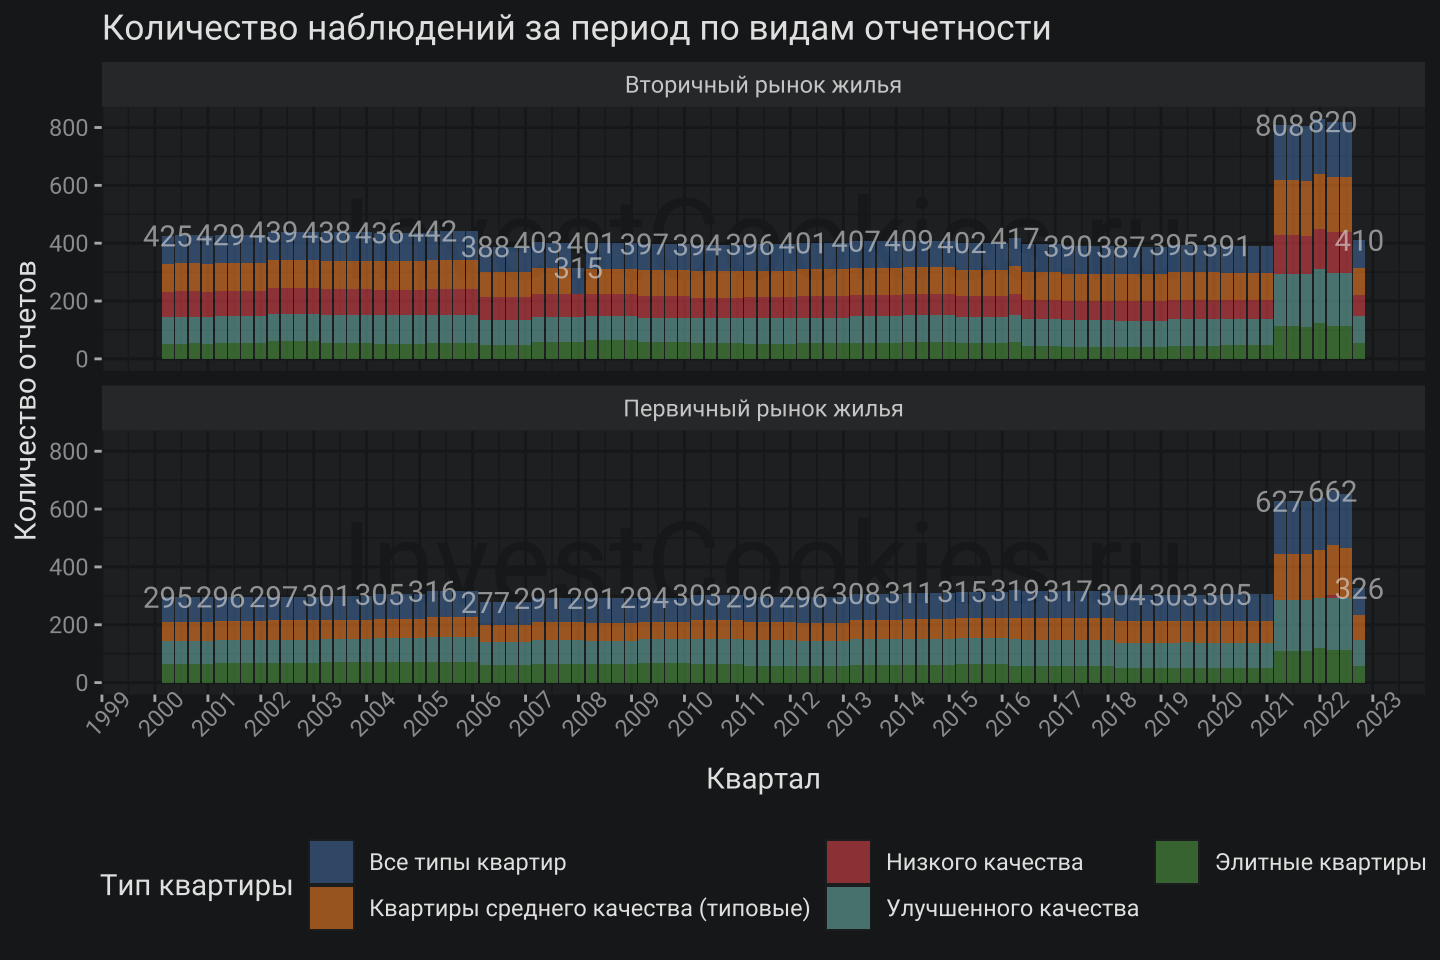
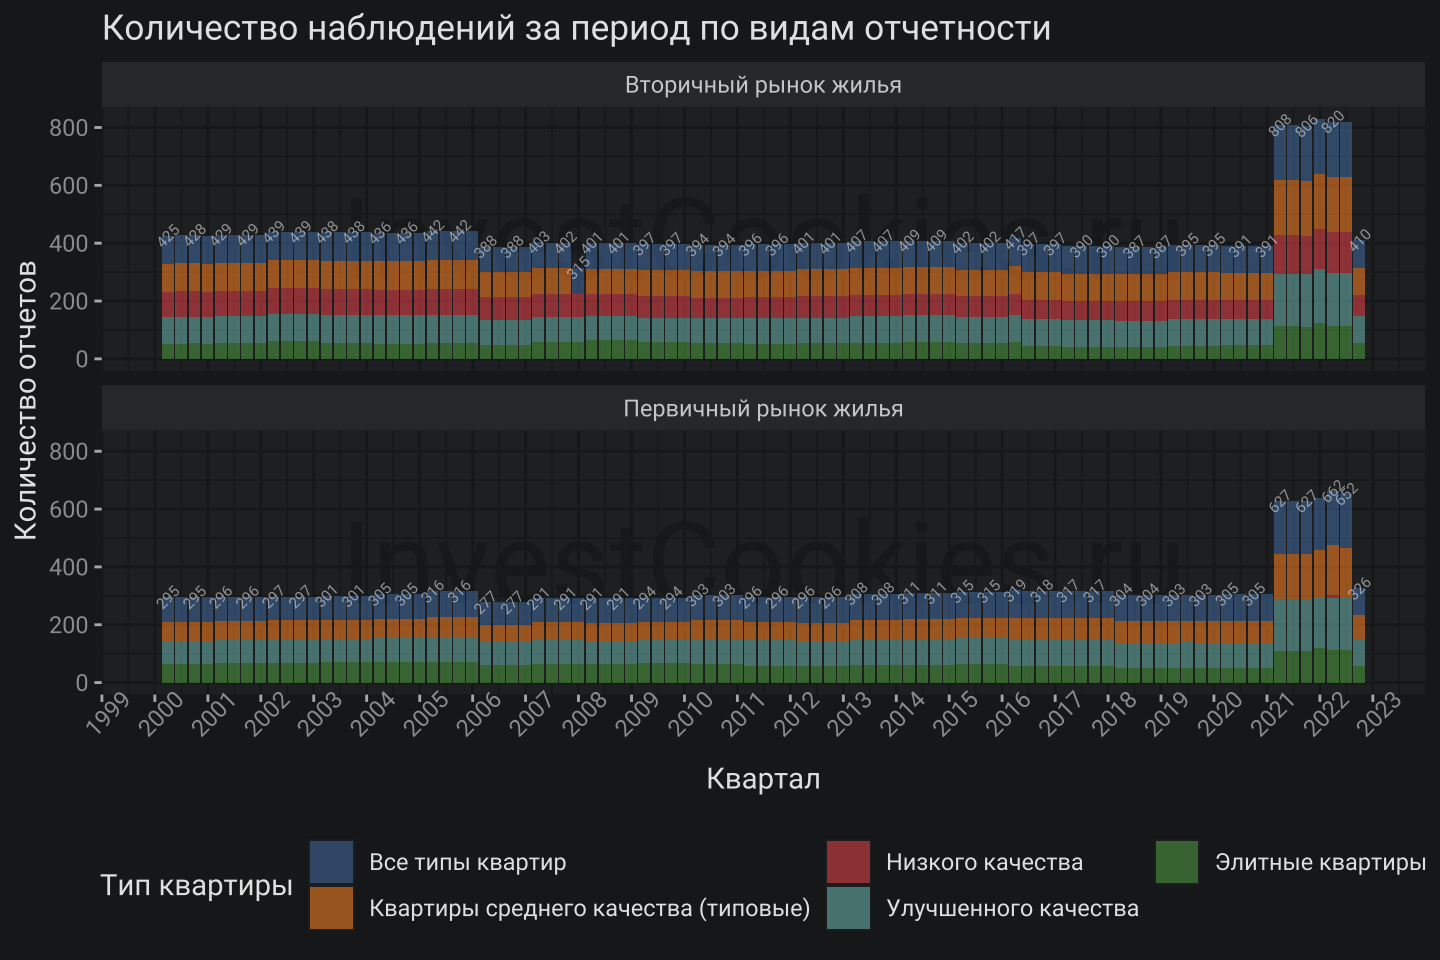
fix stack

diff --git a/content/post/ggplot_stack/index.md b/content/post/ggplot_stack/index.md
@@ -73,7 +73,7 @@ slice_sample(house, n = 30) %>% # 30 случайных наблюдений
 ```
 
 <div id="htmlwidget-1" style="width:100%;height:auto;" class="datatables html-widget"></div>
-<script type="application/json" data-for="htmlwidget-1">{"x":{"style":"bootstrap4","filter":"none","vertical":false,"extensions":["Responsive"],"caption":"<caption>Котировки технологических гигантов<\/caption>","data":[["1","2","3","4","5","6","7","8","9","10","11","12","13","14","15","16","17","18","19","20","21","22","23","24","25","26","27","28","29","30"],["рубль","рубль","рубль","рубль","рубль","рубль","рубль","рубль","рубль","рубль","рубль","рубль","рубль","рубль","рубль","рубль","рубль","рубль","рубль","рубль","рубль","рубль","рубль","рубль","рубль","рубль","рубль","рубль","рубль","рубль"],[42104.5,13880.61,34093.75,208456.55,25361.49,72586.38,49140.4,36958.49,51568.23,7536.33,40072.96,59134.25,12420.55,30089.01,53662.46,16537.45,89524.29,84497.15,67657.77,59833.19,6806.7,43500,73228.62,34348.7,14732.77,63595.74,56815.08,38448.11,111117.99,62207.27],["I квартал","IV квартал","III квартал","II квартал","II квартал","I квартал","I квартал","I квартал","I квартал","IV квартал","I квартал","IV квартал","II квартал","II квартал","III квартал","III квартал","III квартал","I квартал","II квартал","IV квартал","I квартал","I квартал","I квартал","I квартал","II квартал","II квартал","III квартал","III квартал","I квартал","IV квартал"],["3","4","5","3","4","5","1","3","1","2","3","4","1","1","4","5","4","5","5","3","5","5","5","5","3","1","4","4","5","5"],["2016","2006","2006","2022","2006","2017","2016","2008","2016","2002","2014","2008","2005","2006","2015","2003","2021","2021","2020","2014","2001","2009","2021","2011","2006","2020","2017","2018","2021","2021"],["73000000000","83000000000","57000000000","40000000000","57000000000","50000000000","78000000000","035","27000000000","70000000000","58000000000","71100000000","85000000000","031","70000000000","059","65000000000","20000000000","86000000000","71100000000","054","24000000000","12000000000","24000000000","24000000000","50000000000","35000000000","63000000000","034","33000000000"],[null,null,null,null,null,null,null,null,null,null,null,null,null,null,null,null,"1.АГ",null,null,null,null,null,"1.АГ",null,null,null,null,null,null,"1.АГ"],["3","3","1","1","1","1","3","1","1","3","3","3","1","1","3","1","1","3","3","3","1","3","3","1","3","3","1","1","1","3"],["Вторичный рынок жилья","Вторичный рынок жилья","Первичный рынок жилья","Первичный рынок жилья","Первичный рынок жилья","Первичный рынок жилья","Вторичный рынок жилья","Первичный рынок жилья","Первичный рынок жилья","Вторичный рынок жилья","Вторичный рынок жилья","Вторичный рынок жилья","Первичный рынок жилья","Первичный рынок жилья","Вторичный рынок жилья","Первичный рынок жилья","Первичный рынок жилья","Вторичный рынок жилья","Вторичный рынок жилья","Вторичный рынок жилья","Первичный рынок жилья","Вторичный рынок жилья","Вторичный рынок жилья","Первичный рынок жилья","Вторичный рынок жилья","Вторичный рынок жилья","Первичный рынок жилья","Первичный рынок жилья","Первичный рынок жилья","Вторичный рынок жилья"],["Ульяновская область","Кабардино-Балкарская Республика","Пермский край","Город Санкт-Петербург город федерального значения","Пермский край","Новосибирская область","Ярославская область","Сибирский федеральный округ","Калининградская область","Тульская область","Псковская область","Ханты-Мансийский автономный округ - Югра (Тюменская область)","Республика Калмыкия","Северо-Западный федеральный округ","Тульская область","Восточно-Сибирский район","Свердловская область","Воронежская область","Республика Карелия","Ханты-Мансийский автономный округ - Югра (Тюменская область)","Центрально-Черноземный район","Ивановская область","Астраханская область","Ивановская область","Ивановская область","Новосибирская область","Республика Крым","Саратовская область","Уральский федеральный округ","Кировская область"],[null,null,null,null,null,null,null,null,null,null,null,null,null,null,null,null,"Все территории - итого",null,null,null,null,null,"Все территории - итого",null,null,null,null,null,null,"Все территории - итого"],["Квартиры среднего качества (типовые)","Улучшенного качества","Элитные квартиры","Квартиры среднего качества (типовые)","Улучшенного качества","Элитные квартиры","Все типы квартир","Квартиры среднего качества (типовые)","Все типы квартир","Низкого качества","Квартиры среднего качества (типовые)","Улучшенного качества","Все типы квартир","Все типы квартир","Улучшенного качества","Элитные квартиры","Улучшенного качества","Элитные квартиры","Элитные квартиры","Квартиры среднего качества (типовые)","Элитные квартиры","Элитные квартиры","Элитные квартиры","Элитные квартиры","Квартиры среднего качества (типовые)","Все типы квартир","Улучшенного качества","Улучшенного качества","Элитные квартиры","Элитные квартиры"],["03","12","09","06","06","03","03","03","03","12","03","12","06","06","09","09","09","03","06","12","03","03","03","03","06","06","09","09","03","12"],["2016-03-30","2006-12-30","2006-09-30","2022-06-30","2006-06-30","2017-03-30","2016-03-30","2008-03-30","2016-03-30","2002-12-30","2014-03-30","2008-12-30","2005-06-30","2006-06-30","2015-09-30","2003-09-30","2021-09-30","2021-03-30","2020-06-30","2014-12-30","2001-03-30","2009-03-30","2021-03-30","2011-03-30","2006-06-30","2020-06-30","2017-09-30","2018-09-30","2021-03-30","2021-12-30"]],"container":"<table class=\"table table-striped table-hover row-border order-column display\">\n  <thead>\n    <tr>\n      <th> <\/th>\n      <th>EI<\/th>\n      <th>ObsValue<\/th>\n      <th>PERIOD<\/th>\n      <th>S_TIPKVARTIR_code<\/th>\n      <th>Time<\/th>\n      <th>s_OKATO_code<\/th>\n      <th>s_mestdom_code<\/th>\n      <th>s_vidryn_code<\/th>\n      <th>s_vidryn<\/th>\n      <th>s_OKATO<\/th>\n      <th>s_mestdom<\/th>\n      <th>S_TIPKVARTIR<\/th>\n      <th>month<\/th>\n      <th>date<\/th>\n    <\/tr>\n  <\/thead>\n<\/table>","options":{"pageLength":10,"columnDefs":[{"className":"dt-right","targets":2},{"orderable":false,"targets":0}],"order":[],"autoWidth":false,"orderClasses":false,"responsive":true}},"evals":[],"jsHooks":[]}</script>
+<script type="application/json" data-for="htmlwidget-1">{"x":{"style":"bootstrap4","filter":"none","vertical":false,"extensions":["Responsive"],"caption":"<caption>Котировки технологических гигантов<\/caption>","data":[["1","2","3","4","5","6","7","8","9","10","11","12","13","14","15","16","17","18","19","20","21","22","23","24","25","26","27","28","29","30"],["рубль","рубль","рубль","рубль","рубль","рубль","рубль","рубль","рубль","рубль","рубль","рубль","рубль","рубль","рубль","рубль","рубль","рубль","рубль","рубль","рубль","рубль","рубль","рубль","рубль","рубль","рубль","рубль","рубль","рубль"],[41187.95,11654.39,29544.55,38000,35119.66,76506.64,37890.3,46239.51,32270.48,151002.19,128745.22,56860.93,17735.26,68140.86,31978.94,15241.51,52646.23,19906.9,45332.31,22165.75,38579.31,35604.36,96226.28,35699.48,6225.08,13640.47,3581.58,85161.5,51000.61,61860.68],["III квартал","IV квартал","II квартал","IV квартал","II квартал","I квартал","IV квартал","IV квартал","III квартал","I квартал","IV квартал","IV квартал","I квартал","II квартал","II квартал","III квартал","II квартал","IV квартал","II квартал","III квартал","II квартал","I квартал","I квартал","I квартал","II квартал","III квартал","III квартал","III квартал","III квартал","IV квартал"],["4","1","4","5","2","4","1","5","3","5","4","5","5","3","2","3","3","5","1","4","4","4","3","4","1","4","3","1","5","1"],["2012","2001","2013","2009","2014","2021","2020","2016","2014","2022","2021","2009","2004","2012","2021","2005","2007","2000","2019","2005","2014","2012","2022","2012","2001","2004","2001","2019","2011","2021"],["14000000000","57000000000","038","24000000000","68000000000","11001000000","37000000000","97000000000","79000000000","041","05000000000","80000000000","57000000000","030","63000000000","032","71100000000","052","18000000000","64000000000","85000000000","37000000000","71100000000","61000000000","036","33000000000","81000000000","031","80000000000","61000000000"],[null,null,null,null,null,"1.АГ",null,null,null,"1.АГ","1.АГ",null,null,null,null,null,null,null,null,null,null,null,null,null,null,null,null,null,null,"1.АГ"],["3","1","1","1","3","3","3","1","1","1","1","1","1","1","3","1","3","3","1","3","3","3","3","1","3","1","3","1","1","3"],["Вторичный рынок жилья","Первичный рынок жилья","Первичный рынок жилья","Первичный рынок жилья","Вторичный рынок жилья","Вторичный рынок жилья","Вторичный рынок жилья","Первичный рынок жилья","Первичный рынок жилья","Первичный рынок жилья","Первичный рынок жилья","Первичный рынок жилья","Первичный рынок жилья","Первичный рынок жилья","Вторичный рынок жилья","Первичный рынок жилья","Вторичный рынок жилья","Вторичный рынок жилья","Первичный рынок жилья","Вторичный рынок жилья","Вторичный рынок жилья","Вторичный рынок жилья","Вторичный рынок жилья","Первичный рынок жилья","Вторичный рынок жилья","Первичный рынок жилья","Вторичный рынок жилья","Первичный рынок жилья","Первичный рынок жилья","Вторичный рынок жилья"],["Белгородская область","Пермский край","Северо-Кавказский федеральный округ","Ивановская область","Тамбовская область","Архангельская область (кроме Ненецкого автономного округа)","Курганская область","Чувашская Республика - Чувашия","Республика Адыгея (Адыгея)","Сибирский федеральный округ","Приморский край","Республика Башкортостан","Пермский край","Центральный федеральный округ","Саратовская область","Южный федеральный округ (по 2009 год)","Ханты-Мансийский автономный округ - Югра (Тюменская область)","Центральный район","Волгоградская область","Сахалинская область","Республика Калмыкия","Курганская область","Ханты-Мансийский автономный округ - Югра (Тюменская область)","Рязанская область","Дальневосточный федеральный округ","Кировская область","Республика Бурятия","Северо-Западный федеральный округ","Республика Башкортостан","Рязанская область"],[null,null,null,null,null,"Все территории - итого",null,null,null,"Все территории - итого","Все территории - итого",null,null,null,null,null,null,null,null,null,null,null,null,null,null,null,null,null,null,"Все территории - итого"],["Улучшенного качества","Все типы квартир","Улучшенного качества","Элитные квартиры","Низкого качества","Улучшенного качества","Все типы квартир","Элитные квартиры","Квартиры среднего качества (типовые)","Элитные квартиры","Улучшенного качества","Элитные квартиры","Элитные квартиры","Квартиры среднего качества (типовые)","Низкого качества","Квартиры среднего качества (типовые)","Квартиры среднего качества (типовые)","Элитные квартиры","Все типы квартир","Улучшенного качества","Улучшенного качества","Улучшенного качества","Квартиры среднего качества (типовые)","Улучшенного качества","Все типы квартир","Улучшенного качества","Квартиры среднего качества (типовые)","Все типы квартир","Элитные квартиры","Все типы квартир"],["09","12","06","12","06","03","12","12","09","03","12","12","03","06","06","09","06","12","06","09","06","03","03","03","06","09","09","09","09","12"],["2012-09-30","2001-12-30","2013-06-30","2009-12-30","2014-06-30","2021-03-30","2020-12-30","2016-12-30","2014-09-30","2022-03-30","2021-12-30","2009-12-30","2004-03-30","2012-06-30","2021-06-30","2005-09-30","2007-06-30","2000-12-30","2019-06-30","2005-09-30","2014-06-30","2012-03-30","2022-03-30","2012-03-30","2001-06-30","2004-09-30","2001-09-30","2019-09-30","2011-09-30","2021-12-30"]],"container":"<table class=\"table table-striped table-hover row-border order-column display\">\n  <thead>\n    <tr>\n      <th> <\/th>\n      <th>EI<\/th>\n      <th>ObsValue<\/th>\n      <th>PERIOD<\/th>\n      <th>S_TIPKVARTIR_code<\/th>\n      <th>Time<\/th>\n      <th>s_OKATO_code<\/th>\n      <th>s_mestdom_code<\/th>\n      <th>s_vidryn_code<\/th>\n      <th>s_vidryn<\/th>\n      <th>s_OKATO<\/th>\n      <th>s_mestdom<\/th>\n      <th>S_TIPKVARTIR<\/th>\n      <th>month<\/th>\n      <th>date<\/th>\n    <\/tr>\n  <\/thead>\n<\/table>","options":{"pageLength":10,"columnDefs":[{"className":"dt-right","targets":2},{"orderable":false,"targets":0}],"order":[],"autoWidth":false,"orderClasses":false,"responsive":true}},"evals":[],"jsHooks":[]}</script>
 
 ## Очевидное решение 👀
 
@@ -111,7 +111,8 @@ house  %>%
   annotate("text_npc", npcx = .5, npcy = .5, alpha = .9, size = 15, 
              label = "InvestCookies.ru", color = "#1D1E20") + 
   geom_bar(aes(y = after_stat(count), fill  = S_TIPKVARTIR), stat = "count", alpha = .6) + 
-  geom_text(aes(label = after_stat(count), y = after_stat(count)), stat = "count", alpha = .6, check_overlap = TRUE) +
+  geom_text(aes(label = after_stat(count), y = after_stat(count)), stat = "count", 
+            alpha = .6, check_overlap = TRUE, size = 2, angle = 45) +
   facet_wrap(~s_vidryn, nrow = 2) + 
   scale_x_date(date_breaks = "year", date_labels = "%Y") + 
   guides(fill = guide_legend(nrow = 2)) +
